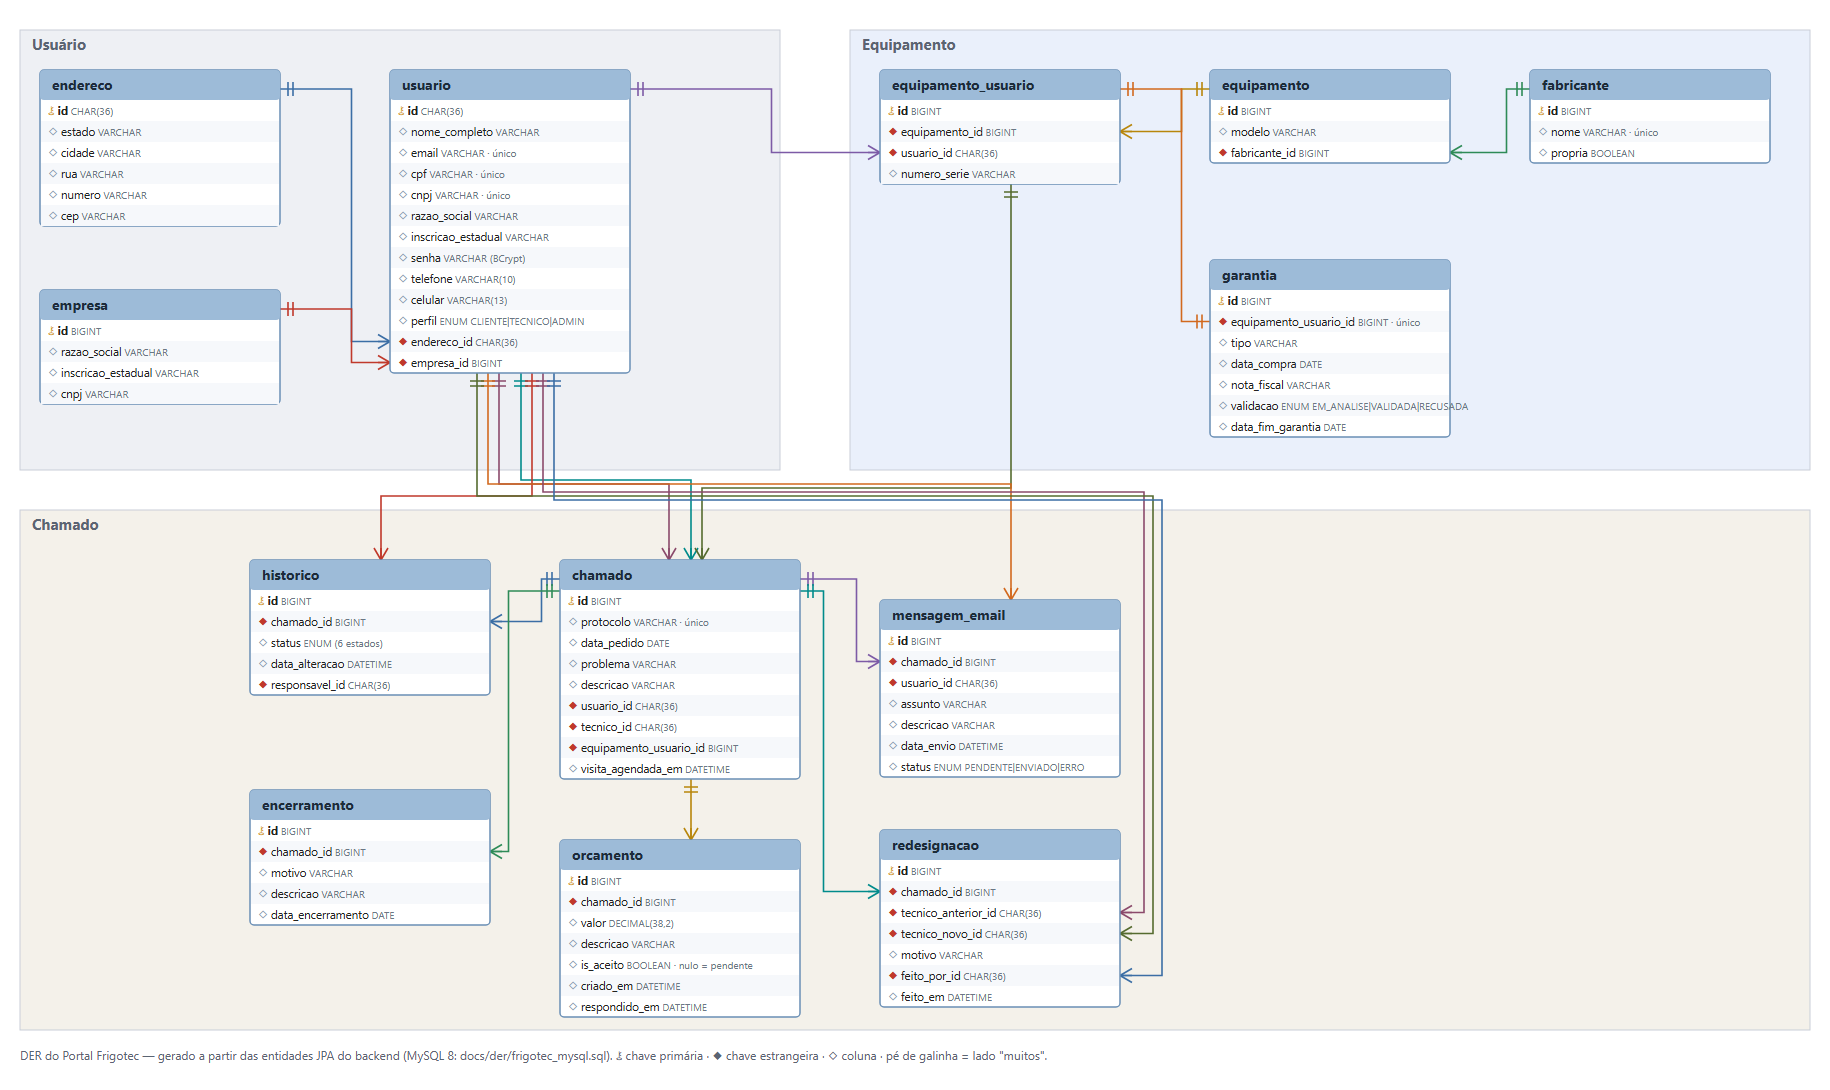
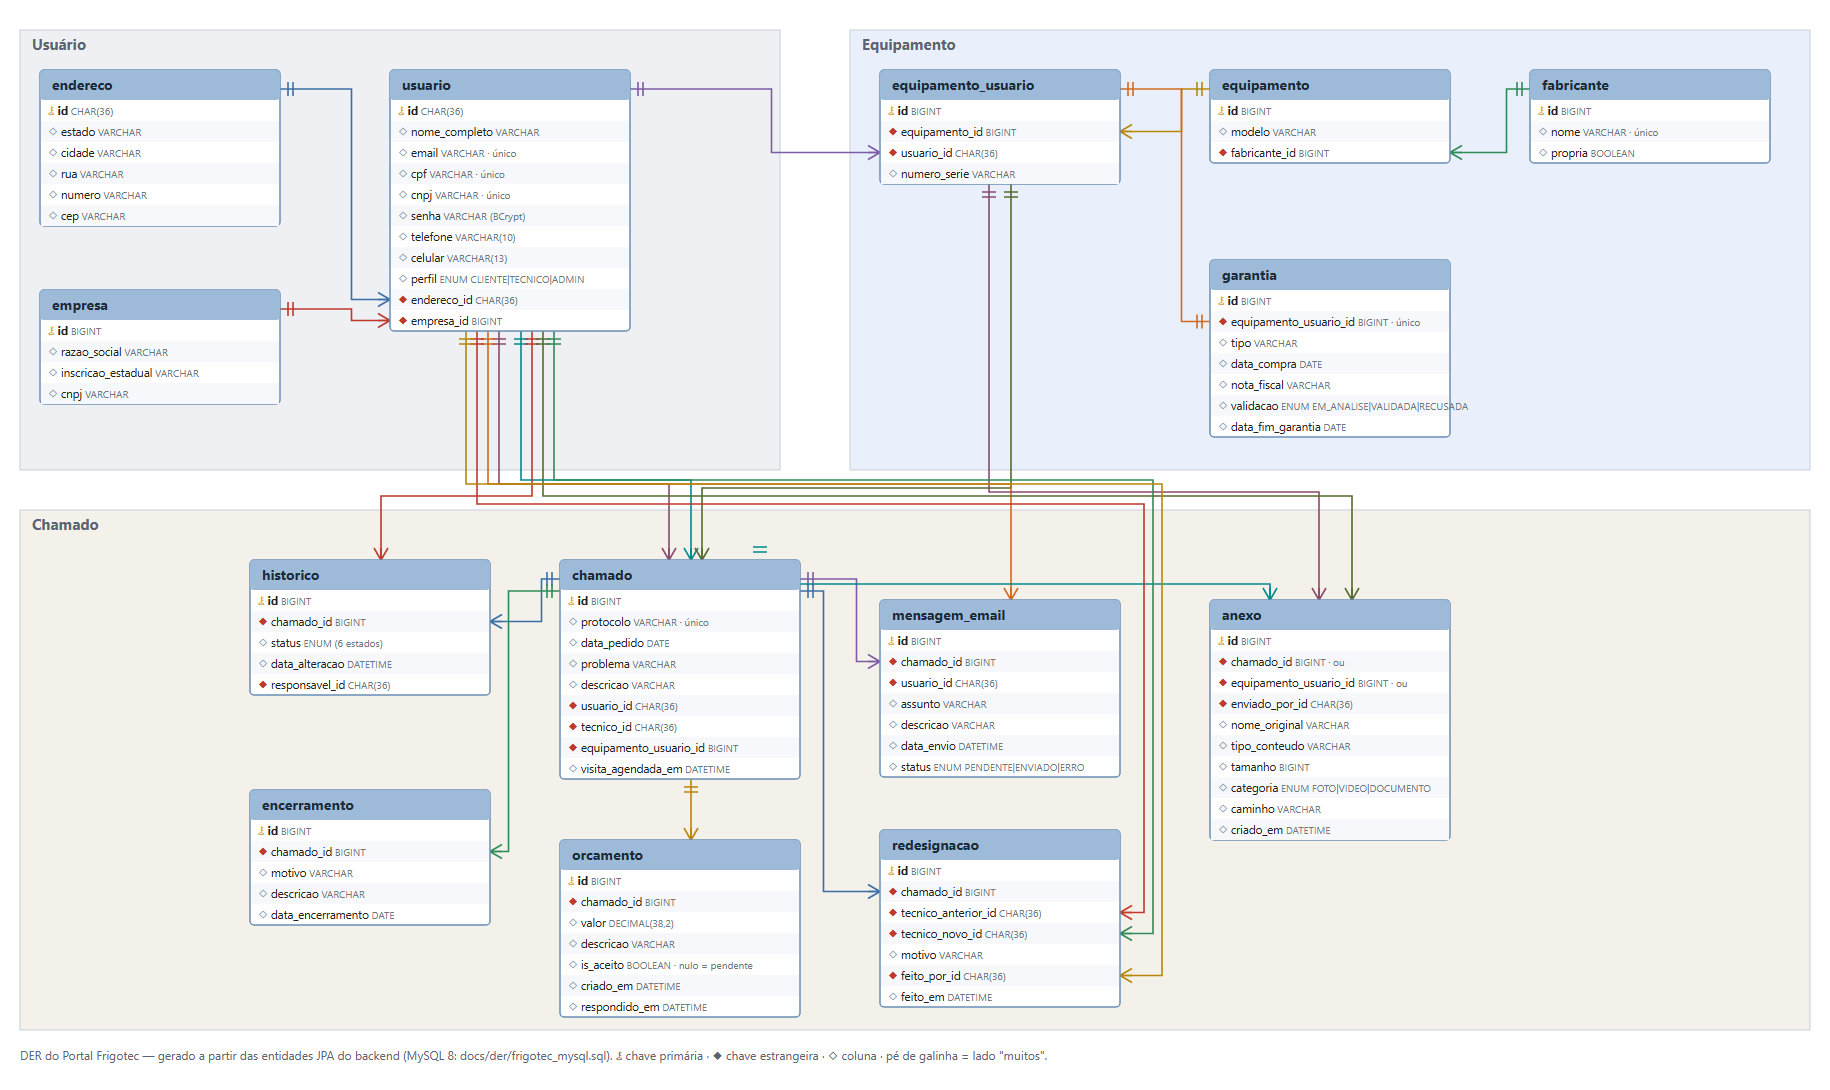
docs: DER com tabela anexo, conformidade com o SDD e checklist atualizados
- DER (imagem e script MySQL) com anexo, campos obrigatorios e sem dados duplicados em usuario
- openapi.yaml com 32 operacoes; planilha de arquitetura com os novos endpoints e o CI
- README e conformidade com o SDD: upload implementado

Changed region(s): [[0.2492, 0.4367, 0.8098, 0.8422], [0.1869, 0.1872, 0.3115, 0.3743], [0.4361, 0.5303, 0.4672, 0.5615]]

diff --git a/docs/conformidade-sdd.md b/docs/conformidade-sdd.md
@@ -1,6 +1,6 @@
 # Conformidade do back-end com o SDD
 
-Base: SDD “Regras de Negócio dos Endpoints (MVP)”, versão 0.1 (02/11/2026). Situação conferida no código e nos testes de integração (`./mvnw test`, 20 testes).
+Base: SDD “Regras de Negócio dos Endpoints (MVP)”, versão 0.1 (02/11/2026). Situação conferida no código e nos testes de integração (`./mvnw test`, 25 testes).
 
 | Regra | Situação | Onde |
 |---|---|---|
@@ -12,11 +12,11 @@ Base: SDD “Regras de Negócio dos Endpoints (MVP)”, versão 0.1 (02/11/2026)
 | RN-EQP-04 Listas para os selects | OK | `GET /fabricantes`, `GET /fabricantes/{id}/equipamentos` |
 | RN-EUS-01/02/03 Unidade do cliente, várias do mesmo modelo, série única por modelo | OK | `EquipamentoService` |
 | RN-EUS-04 Campos de garantia só para marca própria (422) | OK | `EquipamentoService` |
-| RN-EUS-05 Upload de documentos (multipart, PDF/JPG/PNG) | **NÃO IMPLEMENTADO** | Hoje simulado no front |
+| RN-EUS-05 Upload de documentos (multipart, PDF/JPG/PNG), só marca própria, tamanho configurável | OK | `POST /equipamentos/{id}/documentos`, `AnexoService`, `AnexoTest` |
 | RN-EUS-06 Listagem com situação de garantia | OK | `GET /usuarios/{id}/equipamentos` |
 | RN-GAR-01/02/03 Garantia por unidade, situação calculada, validação pela equipe | OK | `Garantia`, `GarantiaMapper`, `PATCH /garantias/{id}/validacao` |
 | RN-CHM-01/04/05 Pertencimento, protocolo PR+8 dígitos, nasce ENVIADO | OK | `ChamadoService.salvar` |
-| RN-CHM-03 Anexos do chamado (JPG, PNG, MP4) | **NÃO IMPLEMENTADO** | Hoje simulado no front |
+| RN-CHM-03 Anexos do chamado (JPG, PNG, MP4), limite de fotos configurável | OK | `POST /chamados/{id}/anexos` (5 fotos e 1 vídeo por padrão), `AnexoTest` |
 | RN-CHM-10/11 Sequência e quem executa cada transição | OK | `ChamadoService.mudarStatus` (409 em transição inválida) |
 | RN-CHM-12 Atribuição e redesignação com motivo | OK | `POST /chamados/{id}/atribuicao`, `Redesignacao` |
 | RN-CHM-14 Visita futura, a partir de APROVACAO_DO_SERVICO | OK | `PATCH /chamados/{id}/visita` |
@@ -30,7 +30,6 @@ Base: SDD “Regras de Negócio dos Endpoints (MVP)”, versão 0.1 (02/11/2026)
 
 ## Resumo
 
-- Cumpridas: todas as regras do SDD que dependem só do código.
-- Falta implementar: upload de arquivos (RN-EUS-05 e RN-CHM-03). É o único item técnico em aberto; hoje o front simula o envio.
-- Dependem de decisão do grupo ou da Frigotec: cancelamento (RN-CHM-20), orçamento em garantia ativa (RN-ORC-09), fases entre visita e finalizado, o que o cliente aprova em “Aprovação do serviço” e o número de série obrigatório (seção 10 do SDD).
+- Cumpridas: todas as regras do SDD que dependem só do código, incluindo o upload de arquivos (tipo conferido pelo conteúdo, não só pelo nome).
+- Dependem de decisão do grupo ou da Frigotec: cancelamento (RN-CHM-20), orçamento em garantia ativa (RN-ORC-09), fases entre visita e finalizado, o que o cliente aprova em "Aprovação do serviço" e o número de série obrigatório (seção 10 do SDD). O limite de fotos ("X" do wireframe) está em 5 por padrão e muda por variável de ambiente (`UPLOAD_MAX_FOTOS`).
 - Divergência de nomes do DER anterior: veja `docs/der/README.md`.

diff --git a/README.md b/README.md
@@ -58,8 +58,10 @@ Os exemplos incluem equipamentos, garantias (ativa, em análise e vencida), orç
 - CRUD do equipamento do cliente: cadastrar, listar, corrigir série/nota fiscal (`PATCH /equipamentos/{id}`) e excluir (`DELETE /equipamentos/{id}`; recusa com 409 se a unidade já teve chamado).
 - E-mail (JavaMail): orçamento e mudança de status do chamado, com link pelo protocolo.
 - Painel do técnico com KPIs reais: `GET /dashboard/tecnico` (chamados novos, carteira, visitas da semana, orçamentos pendentes).
+- Upload de arquivos de verdade: fotos e vídeo do chamado e nota fiscal da unidade (`POST /chamados/{id}/anexos`, `POST /equipamentos/{id}/documentos`), com tipo conferido pelo conteúdo e limites por variável de ambiente.
+- Editar equipamento no front (série e nota fiscal) e excluir, com as regras do back-end.
 - Contrato da API: Swagger UI e YAML OpenAPI 3.1 públicos em `/v3/api-docs.yaml`; cópia versionada em [docs/openapi.yaml](docs/openapi.yaml).
-- Testes: 20 testes de integração do back (`./mvnw test`); front com `npm run lint` e `npm run build`.
+- Testes: 25 testes de integração do back (`./mvnw test`); front com `npm run lint` e `npm run build`.
 
 ## Próximas entregas
 
@@ -67,13 +69,13 @@ Os exemplos incluem equipamentos, garantias (ativa, em análise e vencida), orç
 |---|---|---|
 | 1 | Telas de orçamento (técnico cria, cliente responde) | API pronta, falta a tela |
 | 2 | Tela para a equipe cadastrar marcas e modelos | API pronta, falta a tela |
-| 3 | Envio de fotos do chamado e da nota fiscal | Simulado no front |
+| 3 | Banco persistente em produção | Pronto: perfil `mysql` + `docker-compose.yml` (falta só o servidor de produção) |
 | 4 | Integração com o Bling (ERP) | Próximos passos |
 | 5 | Conversa entre cliente e técnico | Simulada no front; falta o back |
 | 6 | Avaliação do atendimento e cancelamento de chamado | Simulados; cancelamento depende de decisão do SDD (RN-CHM-20) |
 | 7 | Decisões abertas do SDD: fases entre visita e finalizado, orçamento sem custo em garantia ativa | Pendente de definição da squad |
-| 8 | Qualidade: CI no GitHub Actions, testes do front, reduzir os 10 avisos de lint | A fazer |
-| 9 | Produção: banco persistente no lugar do H2, desligar console do H2, SQL e debug de e-mail | A fazer |
+| 8 | Qualidade: testes do front e reduzir os 10 avisos de lint | A fazer (CI no GitHub Actions já roda back e front) |
+| 9 | Produção: servidor de banco e domínio | A definir (o perfil `mysql` já desliga o console do H2, o SQL e o debug de e-mail) |
 | 10 | Exigir 1 aprovação nos PRs quando todos forem colaboradores | A fazer |
 
 ## Equipe e contribuição

diff --git a/docs/der/README.md b/docs/der/README.md
@@ -4,7 +4,7 @@
 
 Arquivos desta pasta:
 
-- `DER_Portal_Frigotec.png`: diagrama gerado a partir das entidades JPA do back-end (13 tabelas, 3 grupos: Usuário, Equipamento, Chamado).
+- `DER_Portal_Frigotec.png`: diagrama gerado a partir das entidades JPA do back-end (14 tabelas, 3 grupos: Usuário, Equipamento, Chamado).
 - `frigotec_mysql.sql`: o mesmo modelo em MySQL 8. Foi validado executando o script no H2 em modo MySQL, sem erros. Para usar o MySQL de verdade, basta apontar `spring.datasource.*` do back-end para ele.
 
 ## Decisão: o código segue o SDD, então o DER foi corrigido para espelhar o código
@@ -27,6 +27,10 @@ O DER anterior (feito no MySQL Workbench) tinha divergências com o SDD. Em vez 
 
 Também foram removidas do código as entidades `Roles` e `Status` (tabelas sem uso, com dados de exemplo que nem batiam com os estados reais).
 
-## Ponto de atenção que fica como dívida técnica
+## Melhorias aplicadas depois da primeira versão
 
-`usuario` guarda `cnpj`, `razao_social` e `inscricao_estadual` e também tem `empresa_id` apontando para `empresa`, que repete os mesmos três campos. O DER anterior deixava esses dados só em `empresa`. Unificar exige mexer no contrato do cadastro (front e back); fica para a próxima sprint.
+- **Campos obrigatórios no banco:** `chamado.usuario_id`, `chamado.equipamento_usuario_id` e `historico.chamado_id` agora são `NOT NULL`, como a regra de negócio exige.
+- **Sem dados duplicados em `usuario`:** razão social e inscrição estadual ficam só em `empresa` (uma única fonte). O contrato da API não mudou: o `UsuarioDto` continua devolvendo esses campos, lidos da empresa.
+- **Tabela `anexo`:** metadados dos arquivos enviados (fotos e vídeo do chamado, documentos da unidade), com a regra de que exatamente um entre `chamado_id` e `equipamento_usuario_id` é preenchido. O conteúdo fica em disco.
+- **UUID como `CHAR(36)`:** `usuario.id` e `endereco.id` têm o mesmo tipo no H2 e no MySQL.
+- **Banco persistente:** o perfil `mysql` (`application-mysql.properties`) e o `docker-compose.yml` sobem o MySQL com este mesmo modelo.

diff --git a/docs/entregaveis-sprint-2.md b/docs/entregaveis-sprint-2.md
@@ -17,7 +17,7 @@ Legenda: **OK** = existe e foi verificado · **RASCUNHO** = documento criado com
 | Entregável | Situação | Evidência |
 |---|---|---|
 | Login JWT | OK | `POST /usuarios/login`; Spring Security resource server; testes |
-| Swagger + exportação OpenAPI YAML | OK | `/swagger-ui.html`; `/v3/api-docs.yaml` público; cópia em [openapi.yaml](openapi.yaml) (27 operações) |
+| Swagger + exportação OpenAPI YAML | OK | `/swagger-ui.html`; `/v3/api-docs.yaml` público; cópia em [openapi.yaml](openapi.yaml) (32 operações) |
 | CRUD com relacionamento | OK | Usuário → Equipamento → Garantia: POST, GET, PATCH, DELETE em `/equipamentos` (`EquipamentoCrudTest`) |
 | 1 padrão de projeto | OK | Observer: `StatusChamadoAlteradoEvento` + `EmailEventListener` (`EmailObserverTest`) |
 
@@ -48,4 +48,5 @@ Legenda: **OK** = existe e foi verificado · **RASCUNHO** = documento criado com
 - E-mail de mudança de status (SDD RN-NOT-01..03) e link do e-mail pelo protocolo.
 - Dashboard do técnico com dados reais (`GET /dashboard/tecnico`).
 - Back-end alinhado ao DER: removidas as tabelas sem uso `roles` e `status`.
-- Testes de integração: de 10 para 20, todos passando.
+- Upload de arquivos de verdade (SDD RN-CHM-03 e RN-EUS-05), tela de editar equipamento, DER com tabela `anexo` e campos obrigatórios, CI no GitHub Actions e perfil MySQL.
+- Testes de integração: de 10 para 25, todos passando.
